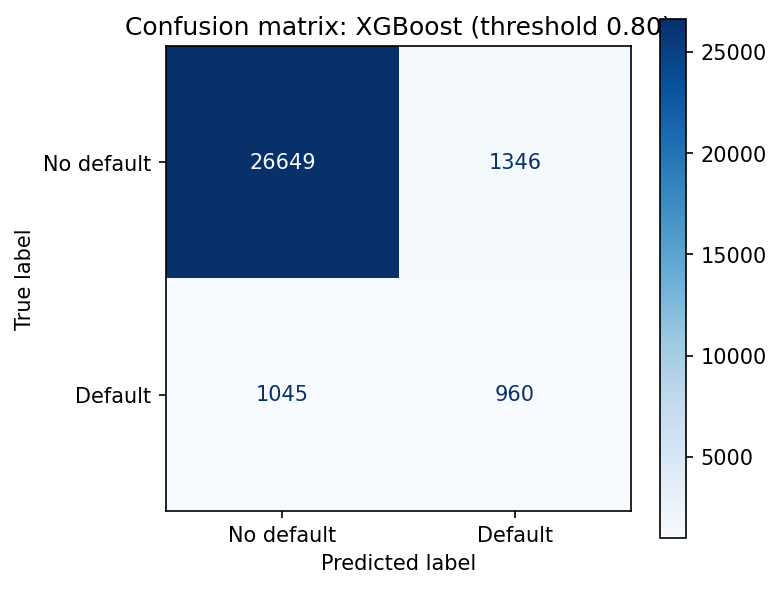
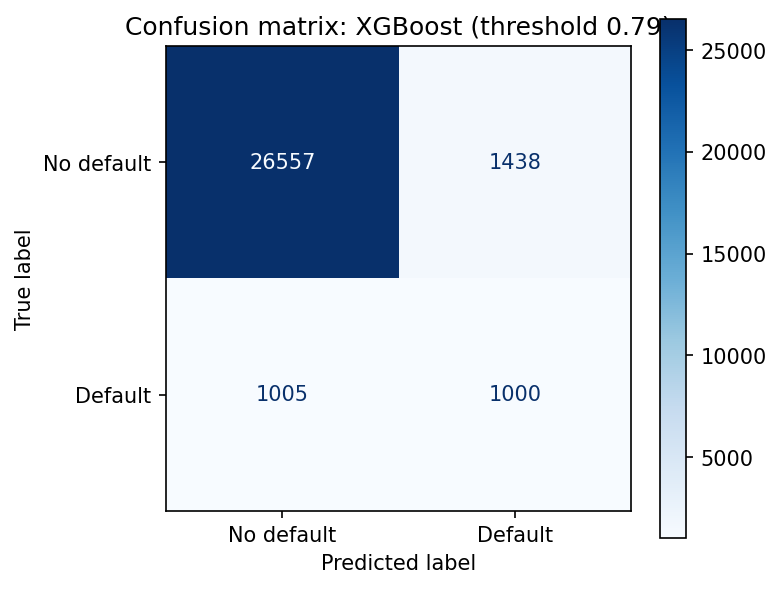
Add SHAP explainability and pin xgboost<3 for compatibility

diff --git a/src/explain.py b/src/explain.py
@@ -1,0 +1,77 @@
+"""SHAP explainability: global feature importance and a single-applicant explanation."""
+import joblib
+import matplotlib
+
+matplotlib.use("Agg")  # save plots to files, no pop-up windows
+import matplotlib.pyplot as plt
+import numpy as np
+import pandas as pd
+import shap
+
+from src.config import MODELS_DIR, RANDOM_STATE, REPORTS_DIR
+from src.features import load_split
+
+SAMPLE_SIZE = 3000
+
+
+def main() -> None:
+    pipeline = joblib.load(MODELS_DIR / "best_model.joblib")
+    preprocessor = pipeline.named_steps["preprocessor"]
+    model = pipeline.named_steps["model"]
+
+    X_test, _ = load_split("test")
+    X_sample = X_test.sample(n=SAMPLE_SIZE, random_state=RANDOM_STATE)
+    X_t = preprocessor.transform(X_sample)  # DataFrame with the 16 feature columns
+
+    explainer = shap.TreeExplainer(model)
+    shap_values = explainer.shap_values(X_t)
+    if isinstance(shap_values, list):  # some versions return one array per class
+        shap_values = shap_values[1]
+    shap_values = np.asarray(shap_values)
+
+    # 1. Global importance table (mean absolute SHAP value per feature)
+    importance = (
+        pd.Series(np.abs(shap_values).mean(axis=0), index=X_t.columns)
+        .sort_values(ascending=False)
+        .rename("mean_abs_shap")
+        .round(4)
+    )
+    importance.to_csv(REPORTS_DIR / "shap_importance.csv")
+    print("Top 10 features by mean |SHAP|:")
+    print(importance.head(10).to_string())
+
+    # 2. Bar chart of global importance
+    plt.figure()
+    shap.summary_plot(shap_values, X_t, plot_type="bar", show=False, max_display=12)
+    plt.title("Feature importance (mean |SHAP value|)")
+    plt.savefig(REPORTS_DIR / "shap_importance.png", dpi=150, bbox_inches="tight")
+    plt.close()
+
+    # 3. Beeswarm: direction and size of each feature's effect
+    plt.figure()
+    shap.summary_plot(shap_values, X_t, show=False, max_display=12)
+    plt.title("How each feature pushes the default prediction")
+    plt.savefig(REPORTS_DIR / "shap_summary.png", dpi=150, bbox_inches="tight")
+    plt.close()
+
+    # 4. Waterfall for the highest-risk applicant in the sample
+    probs = pipeline.predict_proba(X_sample)[:, 1]
+    idx = int(np.argmax(probs))
+    base_value = float(np.ravel(explainer.expected_value)[0])
+    explanation = shap.Explanation(
+        values=shap_values[idx],
+        base_values=base_value,
+        data=X_t.iloc[idx].values,
+        feature_names=list(X_t.columns),
+    )
+    plt.figure()
+    shap.plots.waterfall(explanation, max_display=10, show=False)
+    plt.savefig(REPORTS_DIR / "shap_waterfall_example.png", dpi=150, bbox_inches="tight")
+    plt.close()
+
+    print(f"\nExample applicant: predicted default probability {probs[idx]:.1%}")
+    print("Saved 3 SHAP plots and shap_importance.csv to the reports folder.")
+
+
+if __name__ == "__main__":
+    main()
